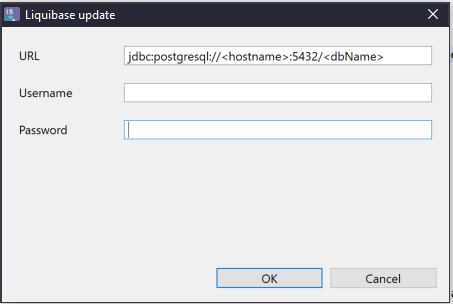
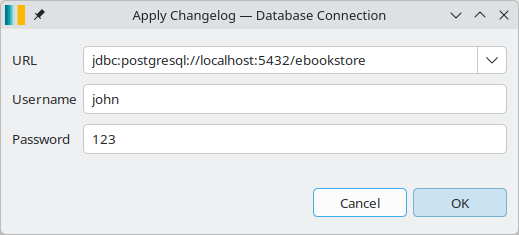
[SAFRAN-1207] Database - Apply Changelog - Document connection profiles
Document credentials.properties creation and numbered connection profiles.
Explain initialization from liquibase.properties, editable connection fields
and the absence of persistence for values entered in the dialog.

Refresh the connection dialog screenshot and regenerate the HTML documentation.

Changed region(s): [[0.0, 0.0, 1.0, 1.0], [0.6181, 0.7745, 0.7726, 0.8043], [0.5872, 0.8043, 0.6181, 0.834]]

diff --git a/addons/scaffolding/plugins/org.obeonetwork.database.doc/doc/ISD - Base de donnees et Scaffolding.html b/addons/scaffolding/plugins/org.obeonetwork.database.doc/doc/ISD - Base de donnees et Scaffolding.html
@@ -428,16 +428,45 @@
 				<em>ChangeLog</em>
 			</strong>
 		</p>
-		<p>Il est possible de déployer un changelog liquibase sur une base de données directement à partir du changelog.</p>
+		<p>Pour appliquer un 
+			<em>ChangeLog</em> sur une base de données, sélectionner son fichier dans l’explorateur puis utiliser le menu contextuel 
+			<em>Liquibase &gt; Apply changelog</em>.
+		</p>
 		<p>
 			<img style="width:480px" border="0" src="pics/BDD_ApplyChangelog.png"/>
 		</p>
-		<p>Les données de connection sont définies par défaut avec le fichier 
-			<em>changelog.properties</em>, normalement créé par liquibase. 
-			<br/>Modifier ce fichier permet de remplir définir les url et identifiants de connection, afin de déployer les changements sur une base distante.
+		<p>Le dialogue 
+			<em>Apply Changelog — Database Connection</em> permet de choisir la connexion à utiliser. À chaque ouverture, les champs 
+			<em>URL</em>, 
+			<em>Username</em> et 
+			<em>Password</em> sont initialisés avec les propriétés 
+			<code>url</code>, 
+			<code>username</code> et 
+			<code>password</code> du fichier 
+			<code>liquibase/&lt;Type BDD&gt;/&lt;Nom BDD&gt;/liquibase.properties</code>.
 		</p>
 		<p>
 			<img border="0" src="pics/BDD_ApplyChangelog_Connection.png"/>
+		</p>
+		<p>Les connexions enregistrées sont définies dans le fichier 
+			<code>credentials.properties</code>, situé à côté de 
+			<code>liquibase.properties</code>. Si ce fichier n’existe pas, il est créé automatiquement à l’ouverture du dialogue, avec comme premier triplet 
+			<code>url.1</code>, 
+			<code>username.1</code> et 
+			<code>password.1</code> les valeurs de 
+			<code>liquibase.properties</code>.
+		</p>
+		<p>Pour ajouter une connexion, compléter un triplet avec le même numéro pour les trois propriétés. Exemple à adapter aux bases utilisées :</p>
+		<pre><code>url.1=jdbc:postgresql://localhost:5432/ebookstore
+username.1=john
+password.1=123
+#url.2=jdbc:postgresql://localhost:5432/ebookstore_test
+#username.2=johny
+#password.2=123
+</code></pre>
+		<p>L’ordre des triplets est libre, et leurs numéros peuvent être discontinus.</p>
+		<p>Choisir une entrée dans la liste 
+			<em>URL</em> renseigne l’URL, l’utilisateur et le mot de passe associés. Les champs restent modifiables. Les modifications saisies dans le dialogue ne sont pas enregistrées dans les fichiers de propriétés.
 		</p>
 		<h2 id="database_transformations">Transformations</h2>
 		<p>Les transformations suivantes sont proposées afin d&#8217;initialiser un modèle à partir d&#8217;un autre :</p>
